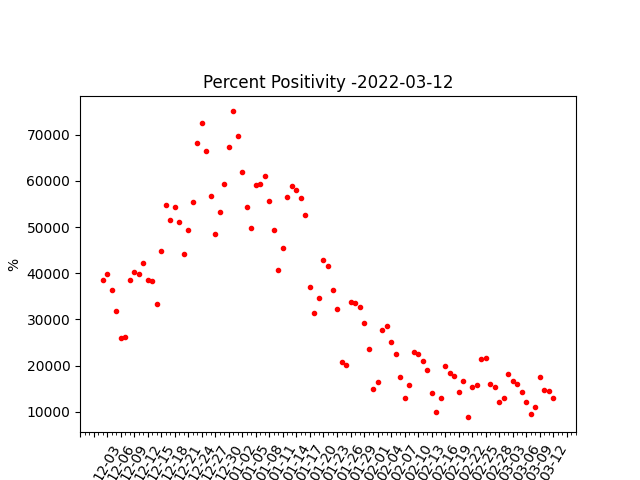
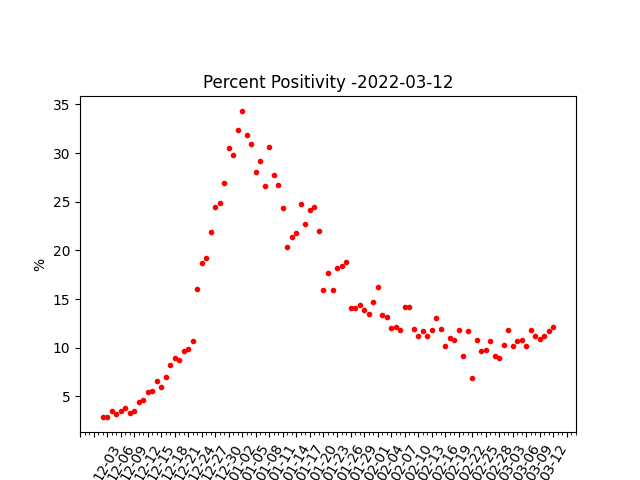
automated

diff --git a/Scripts/Covid_AnalysisPlot.py b/Scripts/Covid_AnalysisPlot.py
@@ -748,8 +748,8 @@ filename = "/Users/matti/Desktop/Covid/covidtesting_"+strToday+".csv"
 
 
 reported_date = 0
-pctPos = 10
-tests = 9
+pctPos = 11
+tests = 10
 
 
 	
